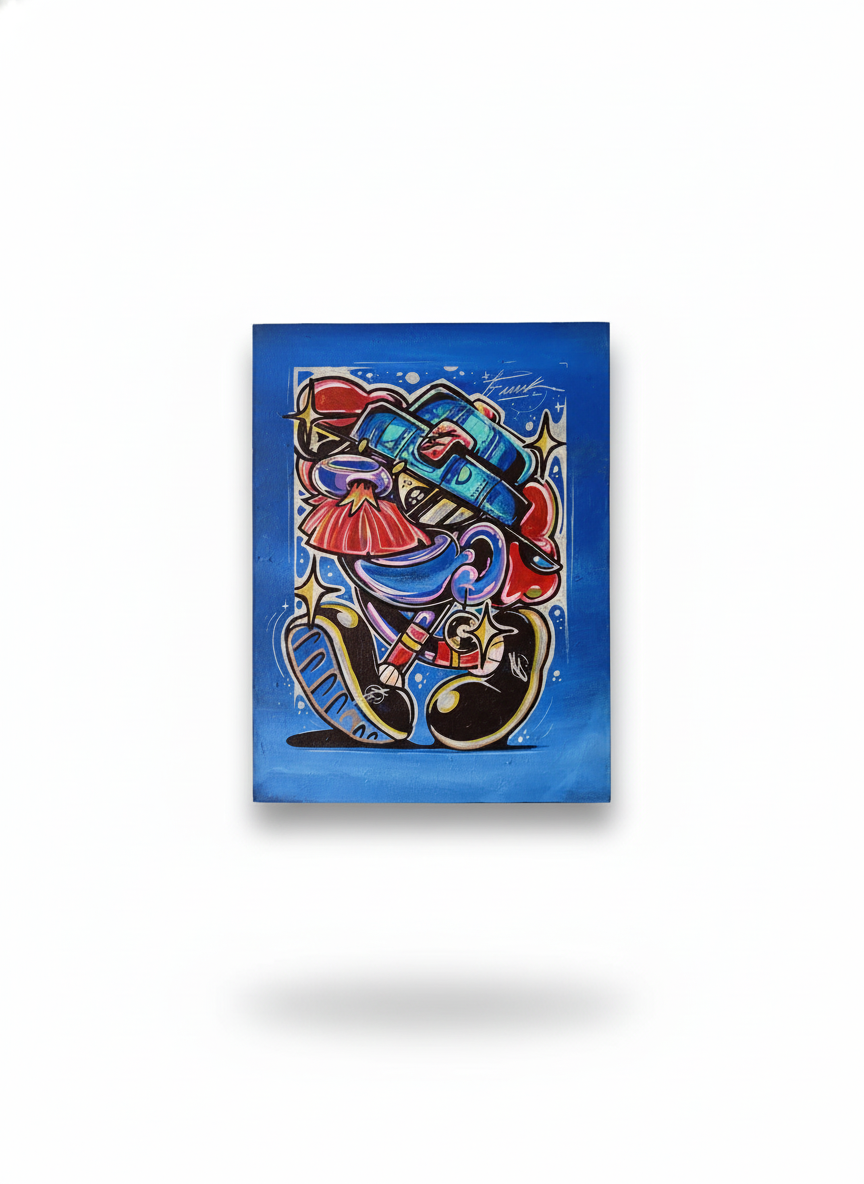
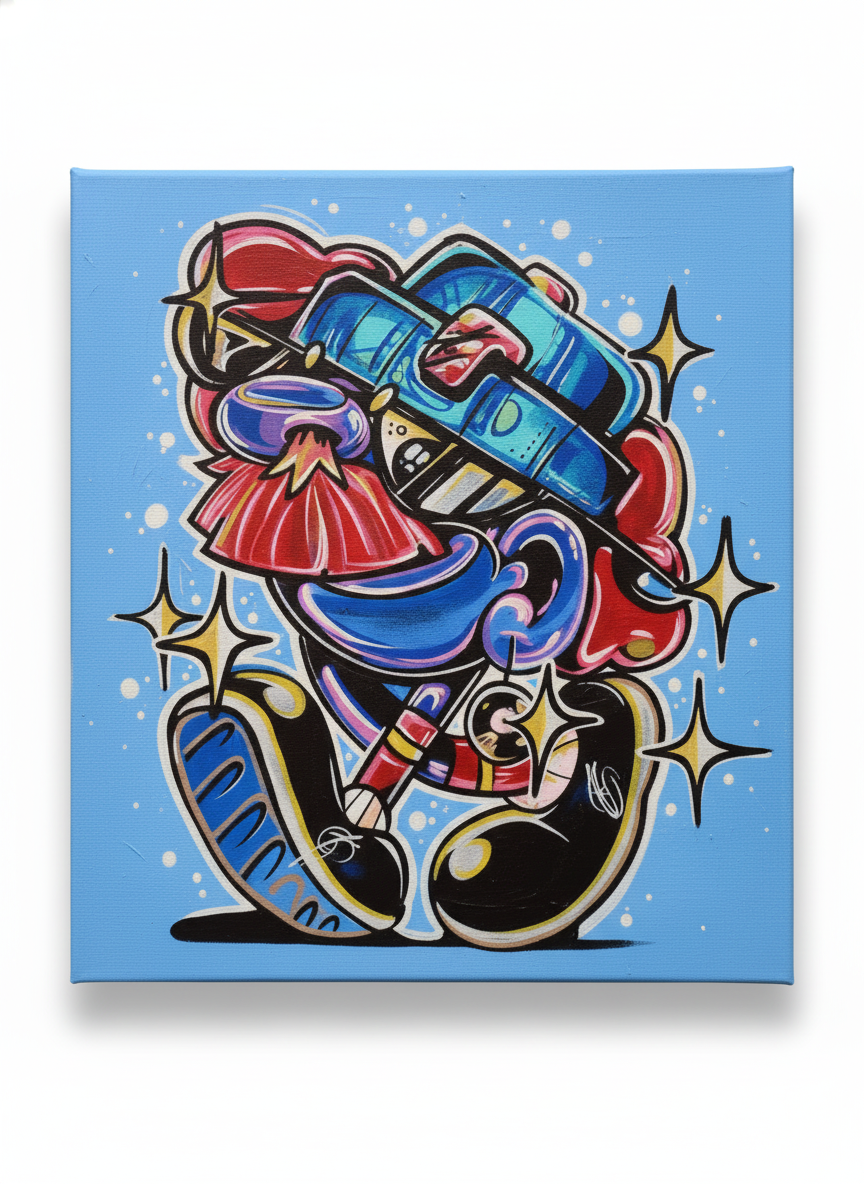
projeto final - ecommerce

diff --git a/atividade_ecommerce/js/produtos.js b/atividade_ecommerce/js/produtos.js
@@ -1,57 +1,39 @@
 const lsProduto = [
     {
-        nome: "Banho de Mar",
-        descricao: " vela aromática - 300g",
-        img: "img/vela-01.png",
-        valor: 39
+        nome: "Chá Animal - Street Art",
+        descricao: "Quadro Original de Street Art (30x30cm).\n Design exclusivo com a figura icônica do Bule Urbano. Ideal para dar um toque autêntico e moderno à sua decoração.",
+        img: "img/produto1.png", 
+        valor: 380
     },
     {
-        nome: "Passeio na Floresta",
-        descricao: " vela aromática - 300g",
-        img: "img/vela-02.png",
-        valor: 39
+        nome: "Bule Boêmio",
+        descricao: 'Arte Original. Um personagem carismático que te convida a desconectar para reconectar. Uma explosão de cores e detalhes, perfeita para adicionar um toque de irreverência e arte de rua ao seu ambiente.',
+        img: "img/produto2.png",
+        valor: 350
     },
     {
-        nome: "Trio Bom dia",
-        descricao: " vela aromática - 300g",
-        img: "img/vela-03.png",
-        valor: 39
+        nome: "Vibe Street",
+        descricao: "Uma composição dinâmica de cores e formas que capturam a vibe frenética e criativa do ambiente urbano. Uma peça vibrante para injetar personalidade e arte moderna em qualquer espaço.",
+        img: "img/produto3.png",
+        valor: 320
     },
     {
-        nome: "Meus Cristais",
-        descricao: " vela aromática - 300g",
-        img: "img/vela-04.png",
-        valor: 39
+        nome: "Mapa Afetivo - Retrato Urbano",
+        descricao: 'Arte Original em Moldura Preta. Uma bela colagem ou composição que recria a alma de uma cidade através de seus ícones e arquitetura. O "Mapa Afetivo" traz um toque de urban chic e nostalgia para qualquer parede.',
+        img: "img/produto4.png",
+        valor: 180
     },
     {
-        nome: "Campo de Lavanda",
-        descricao: " vela aromática - 300g",
-        img: "img/vela-05.png",
-        valor: 39
+        nome: "Jaqueta Favela Art Edition",
+        descricao: 'Jaqueta Denim Customizada à Mão.\nPeça Única. \nA "Favela Art Edition" é uma obra de arte vestível que homenageia a paisagem vibrante do Rio de Janeiro com traços gráficos inspirados no grafite. Um item de colecionador que garante um estilo exclusivo e autêntico.',
+        img: "img/produto5.png",
+        valor: 690
     },
     {
-        nome: "Minha Rotina",
-        descricao: " vela aromática - 300g",
-        img: "img/vela-06.png",
-        valor: 39
-    },
-    {
-        nome: "Vida no Campo",
-        descricao: " vela aromática - 300g",
-        img: "img/vela-07.png",
-        valor: 39
-    },
-    {
-        nome: "Meu Momento",
-        descricao: " vela aromática - 300g",
-        img: "img/vela-08.png",
-        valor: 39
-    },
-    {
-        nome: "Flores Vivas",
-        descricao: " vela aromática - 300g",
-        img: "img/vela-09.png",
-        valor: 39
+        nome: "Black Rose Street",
+        descricao: 'Quadro "Black Rose Street" - Edição Limitada. Uma obra ousada que combina a delicadeza da flor com a força da arte urbana. Contrastes marcantes em preto, branco e rosa vibrante criam uma peça central e moderna para qualquer ambiente.',
+        img: "img/produto6.png",
+        valor: 370
     },
   
 ]

diff --git a/atividade_ecommerce/css/estilo.css b/atividade_ecommerce/css/estilo.css
@@ -7,8 +7,7 @@
 
 .container {
     width: 785px;
-    /* height: 100vh; */
-    background-color: #efedec;
+    background-color: #1A1A1A;
     margin: auto;
     padding: 50px;
 }
@@ -21,15 +20,17 @@ h1 {
 
 .esquerdo p {
     font-family: "Quattrocento", serif;
+    color: #F5F5F5
 }
 
-h1,
-p {
-    color: #3b0a0a;
+h1{
+    color: #F5F5F5;
 }
 
-#btVela {
-    background-color: #3b0a0a;
+
+
+#btCompras {
+    background-color: #FF0080;
     border-radius: 100%;
     width: 50px;
     height: 50px;
@@ -48,16 +49,17 @@ p {
     float: right;
 }
 
-#btVela img {
-    height: 80%;
+#btCompras img {
+    height: 150%;
     filter: invert(1);
+
 }
 
-#btVela #qt {
-    background-color: #aca2a2;
+#btCompras #qt {
+    background-color: #FFD700;
     position: absolute;
-    top: 0px;
-    right: 0px;
+    bottom: 0;
+    right: 0;
     border-radius: 100%;
     color: #fff;
     padding: 0px 5px;
@@ -69,7 +71,6 @@ p {
     display: grid;
     grid-template-columns: auto auto auto;
     justify-content: space-between;
-
 }
 
 .produto {
@@ -98,11 +99,11 @@ p {
 }
 
 .produto:hover {
-    box-shadow: 0px 0px 7px 0px #3b0a0a;
+    box-shadow: 0px 0px 10px 0px #FF0080;
 }
 
 .marcado {
-    background-color: #3b0a0a;
+    background-color: #FF0080;
 }
 
 .marcado p {
@@ -146,7 +147,7 @@ p {
 }
 
 td {
-    background-color: #3b0a0a;
+    background-color: #FF1493;
     color: white;
     padding: 5px;
     text-align: center;
@@ -154,7 +155,7 @@ td {
 
 td[onclick]:hover {
     cursor: pointer;
-    background-color: #775858;
+    background-color: #FFD700;
 }
 
 form {
@@ -162,7 +163,7 @@ form {
 }
 
 form label {
-    color: #3b0a0a;
+    color: #FF1493;
     font-family: "Trocchi", serif;
 }
 
@@ -173,11 +174,11 @@ form input {
 form #inNome {
     padding: 5px;
     width: 300px;
-    border: #3b0a0a solid 1px;
+    border: #FF1493 solid 1px;
 }
 
 form input[value] {
-    background-color: #3b0a0a;
+    background-color: #FF1493;
     padding: 5px 10px;
     color: white;
     font-size: large;

diff --git a/atividade_ecommerce/index.html b/atividade_ecommerce/index.html
@@ -6,7 +6,7 @@
     <meta name="viewport" content="width=device-width, initial-scale=1.0">
     <title>Funk Store</title>
     <link rel="stylesheet" href="css/estilo.css">
-    <link rel="icon" href="img/logo.png">
+    <link rel="icon" href="img/logo2.png" type="image/png">
 </head>
 
 <body>
@@ -17,19 +17,19 @@
                 <p>Viva a essência do Hip Hop e a atitude única do jeito FUNK de ser.</p>
             </div>
             <div class="direito">
-                <div id="btVela">
-                    <img src="img/icon-vela.png" alt="icon-vela">
+                <div id="btCompras">
+                    <img src="img/logo1.png"alt="sacolas-de-compras">
                     <span id="qt"></span>
                 </div>
             </div>
         </div>
         <div class="produtos">
             <div class="produto">
-                <img src="img/vela-01.png" alt="vela01">
-                <p class="nome">Banho de Mar</p>
-                <p class="descricao">vela aromática - 300g</p>
-                <p class="valor">R$39,00</p>
-                <div><img src="" alt=""></div>
+                <img src="img/produto1.png" alt="produto01">
+                <p class="nome">Chá Animal - Street Art</p>
+                <p class="descricao">Quadro Original de Street Art (30x30cm).\n Design exclusivo com a figura icônica do Bule Urbano. Ideal para dar um toque autêntico e moderno à sua decoração."</p>
+                <p class="valor">R$380,00</p>
+                <div><img src="img/logo1.png" alt=""></div>
             </div>
         </div>
         <div class="carrinho ocultar">

diff --git a/atividade_ecommerce/js/script.js b/atividade_ecommerce/js/script.js
@@ -28,7 +28,7 @@ function atualizarQt() {
     document.querySelector("#qt").innerText = qt.length > 0 ? qt.length : ""
 }
 
-document.querySelector("#btVela").addEventListener("click", carrinho)
+document.querySelector("#btCompras").addEventListener("click", carrinho)
 
 function carrinho() {
     const qt = document.querySelector("#qt").innerText
@@ -89,12 +89,12 @@ const frm = document.querySelector("form")
 frm.addEventListener("submit", (e) => {
     e.preventDefault()
     const nome = frm.inNome.value
-    let msg = "Desejo fazer os seguinte pedido!\n"
+    let msg = "Desejo fazer o seguinte pedido!\n"
     msg += pedido
-    msg += `Att: ${nome}`
+    msg += `\nAtt: ${nome}`
     if(confirm("Deseja enviar essa mensagem?\n"+msg)) {
         msg = encodeURI(msg)
-        const link = `https://api.whatsapp.com/send?phone=5561982567849&text=${msg}`
+        const link = `https://api.whatsapp.com/send?phone=556182567849&text=${msg}`
         window.open(link, '_blank') 
     }
 })
